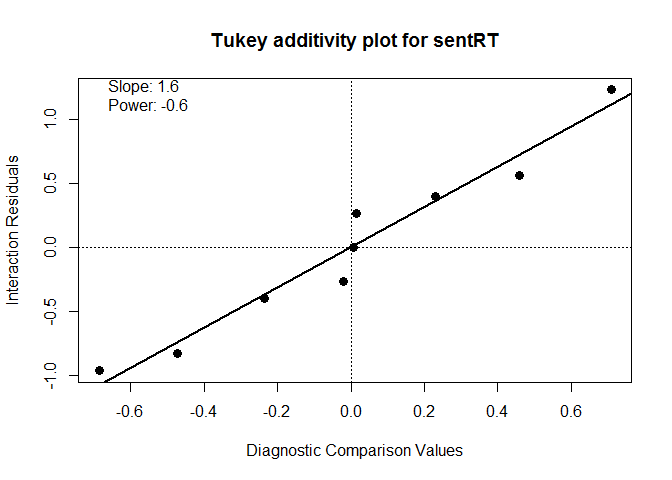
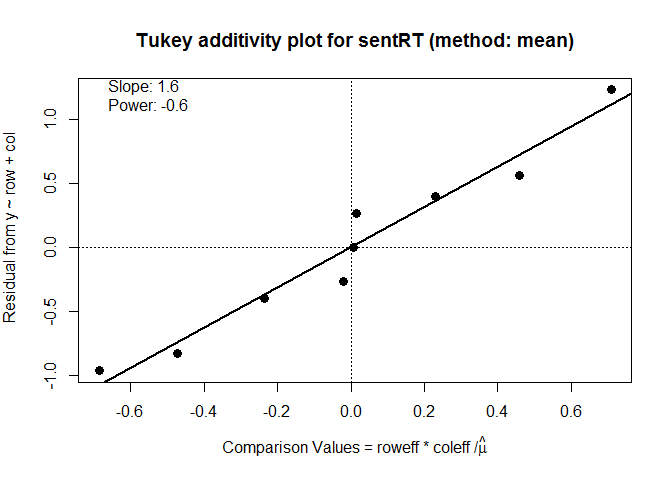
update README

Changed region(s): [[0.1875, 0.0625, 0.875, 0.125], [0.3125, 0.9062, 0.7188, 0.9688], [0.0, 0.2812, 0.0312, 0.6875]]

diff --git a/README.md b/README.md
@@ -6,7 +6,9 @@
 twoway
 ======
 
-Version: `0.4.0`
+**Analysis of Two-Way Tables a la Tukey**
+
+Version: `0.4.1`
 
 The `twoway` package provides analysis and graphical methods for two-way tables with one observation per cell, most typically used in an Analysis of Variance (ANOVA) context. The methods follow Tukey (1949), "One Degree of Freedom for Non-additivity", explained more concretely in Tukey (1972), *Exploratory Data Analysis*, but the graphical ideas are more interesting and general:
 
@@ -53,7 +55,8 @@ The `twoway()` function gives the basic analysis: a decomposition of the two-way
 -   residuals (*x*<sub>*i**j*</sub> − *μ* − *α*<sub>*i*</sub> − *β*<sub>*j*</sub>)
 
 ``` r
-print(twoway(sentRT), border=2)
+sent.2way <- twoway(sentRT)
+print(sent.2way)
 #> 
 #> Mean decomposition (Dataset: "sentRT")
 #> Residuals bordered by row effects, column effects, and overall
@@ -94,7 +97,7 @@ The plot method for `twoway` objects currently provides two types of plots:
 -   a diagnostic plot of interaction residuals vs. comparison values under additivity (`which="diagnose"`).
 
 ``` r
-plot(twoway(sentRT))
+plot(sent.2way)
 ```
 
 ![](README-ex1-plot-1.png)
@@ -102,17 +105,51 @@ plot(twoway(sentRT))
 The diagnostic plot shows the regression of residuals under the additive model against the comparison values under the additive model. If the points in this plot are reasonably linear and have a non-zero slope, *b*, a suggested power transformation of the response to *x*<sup>1 − *b*</sup> will often remove non-additivity.
 
 ``` r
-plot(twoway(sentRT), which="diagnose")
+plot(sent.2way, which="diagnose")
 ```
 
 ![](README-ex1-plot2-1.png)
 
+    #> Slope of Residual on comparison value:  1.6 
+    #> Suggested power transformation:         -0.6
+
 There is an opposite-corner pattern to the residuals in the analysis by means. In the diagnostic plot, the positive slope, *b* = 1.6 suggests a power transformation *x*<sup>1 − *b*</sup> = *x*<sup>−0.6</sup>, which can be taken as close to $1 / \\sqrt{x}$. Alternatively, reaction time data is often more easily analyzed by classical methods and the results more easily understood in terms of *response speed*, using the transformation 1/*x*.
+
+### anova method
+
+In the present version, the `anova()` method for a `"twoway"` object gives the results of two analyses: one for the additive model, and one for the model allowing 1 df for non-additivity.
+
+``` r
+anova(sent.2way)
+#> Dataset: sentRT; method: "mean"
+#> 
+#> Analysis of Variance Table, assuming additivity
+#> 
+#>           Df Sum Sq Mean Sq F value   Pr(>F)   
+#> row        2 59.580 29.7900 30.2949 0.003835 **
+#> col        2  5.647  2.8233  2.8712 0.168574   
+#> Residuals  4  3.933  0.9833                    
+#> ---
+#> Signif. codes:  0 '***' 0.001 '**' 0.01 '*' 0.05 '.' 0.1 ' ' 1
+#> 
+#> 
+#> Analysis of Variance Table, allowing non-additivity
+#> 
+#>            Df Sum Sq Mean Sq F value    Pr(>F)    
+#> row         2 59.580 29.7900 513.449 0.0001572 ***
+#> col         2  5.647  2.8233  48.662 0.0051710 ** 
+#> nonadd      1  3.759  3.7593  64.793 0.0040046 ** 
+#> pure error  3  0.174  0.0580                      
+#> ---
+#> Signif. codes:  0 '***' 0.001 '**' 0.01 '*' 0.05 '.' 0.1 ' ' 1
+```
 
 TODOs
 -----
 
 This package is at an early stage of development. There are some small **TODO**s scattered throughout the code. In addition:
 
--   Implement a proper `anova.twoway()` method, giving a comprehensive analysis of variance table, including the Tukey 1 df test for non-additivity. The present version is just an initial sketch.
--   Allow input of a `data.frame` with columns like `row, col, value` as might be used in `lm(value ~ row + col)`.
+<!-- * Implement a proper `anova.twoway()` method, giving a comprehensive analysis of variance table, including the Tukey 1 df test for non-additivity. The present version is just an initial sketch. -->
+-   Create a formula method for a `data.frame` with columns like `row, col, value` as might be used in `twoway(value ~ row + col, data=)`.
+
+-   It would be nicer to use the names of the row and column variables in some displays, rather than `row` and `col`.
